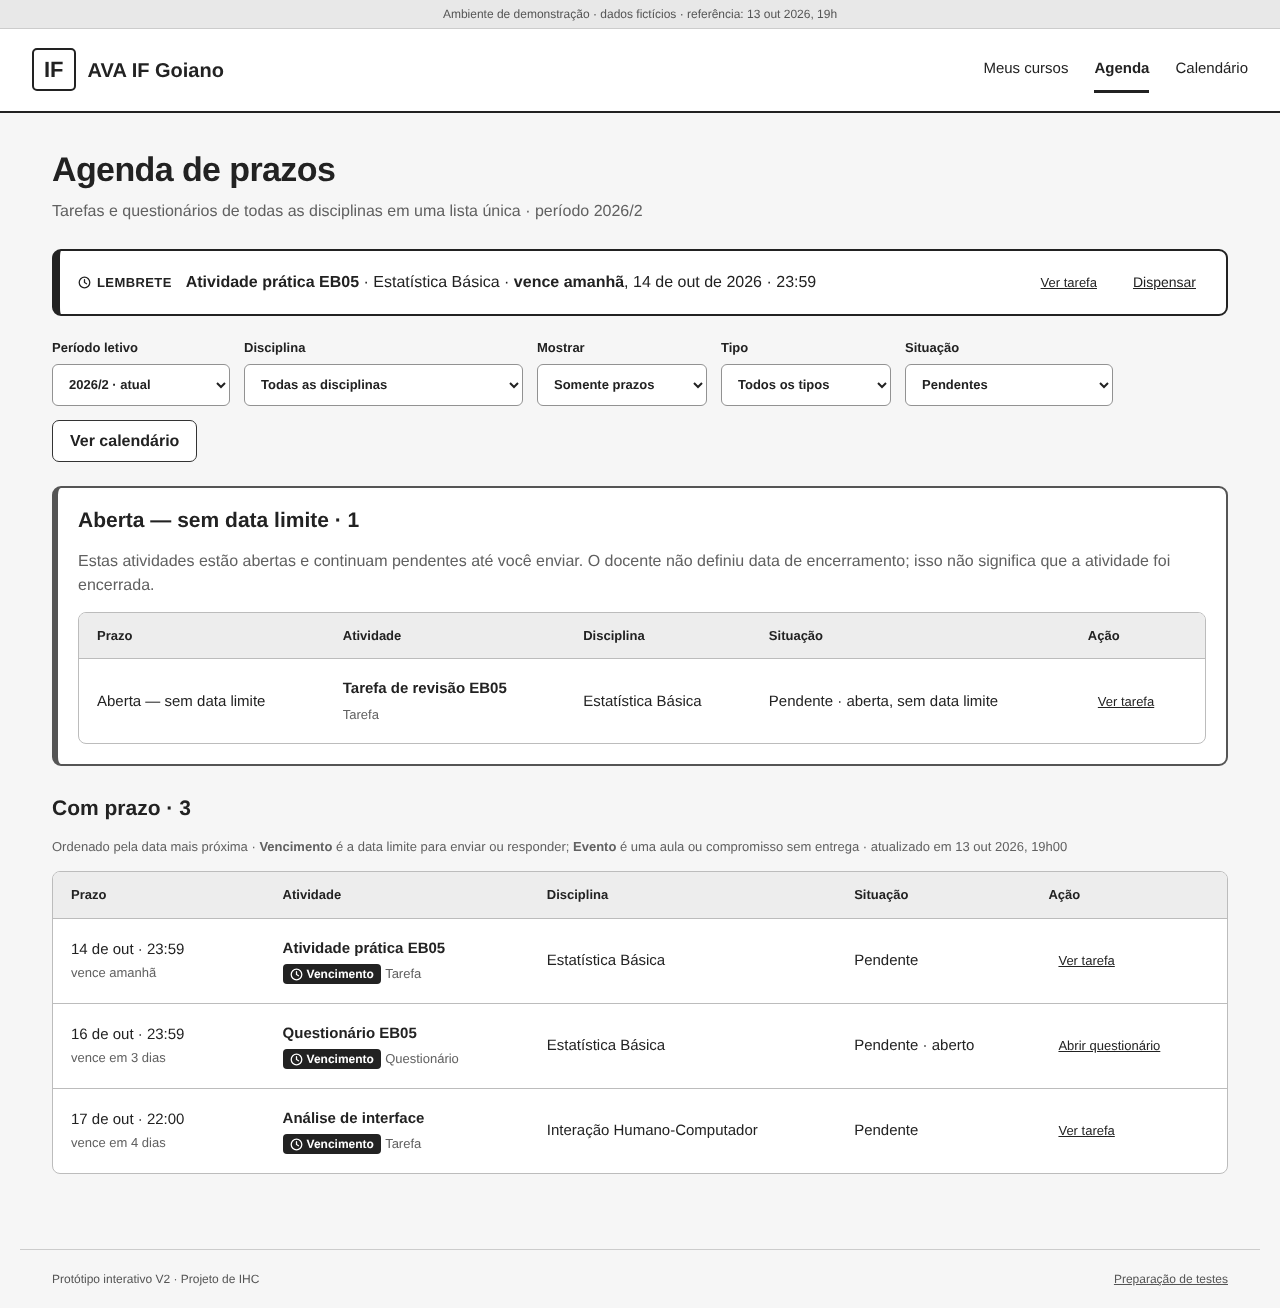
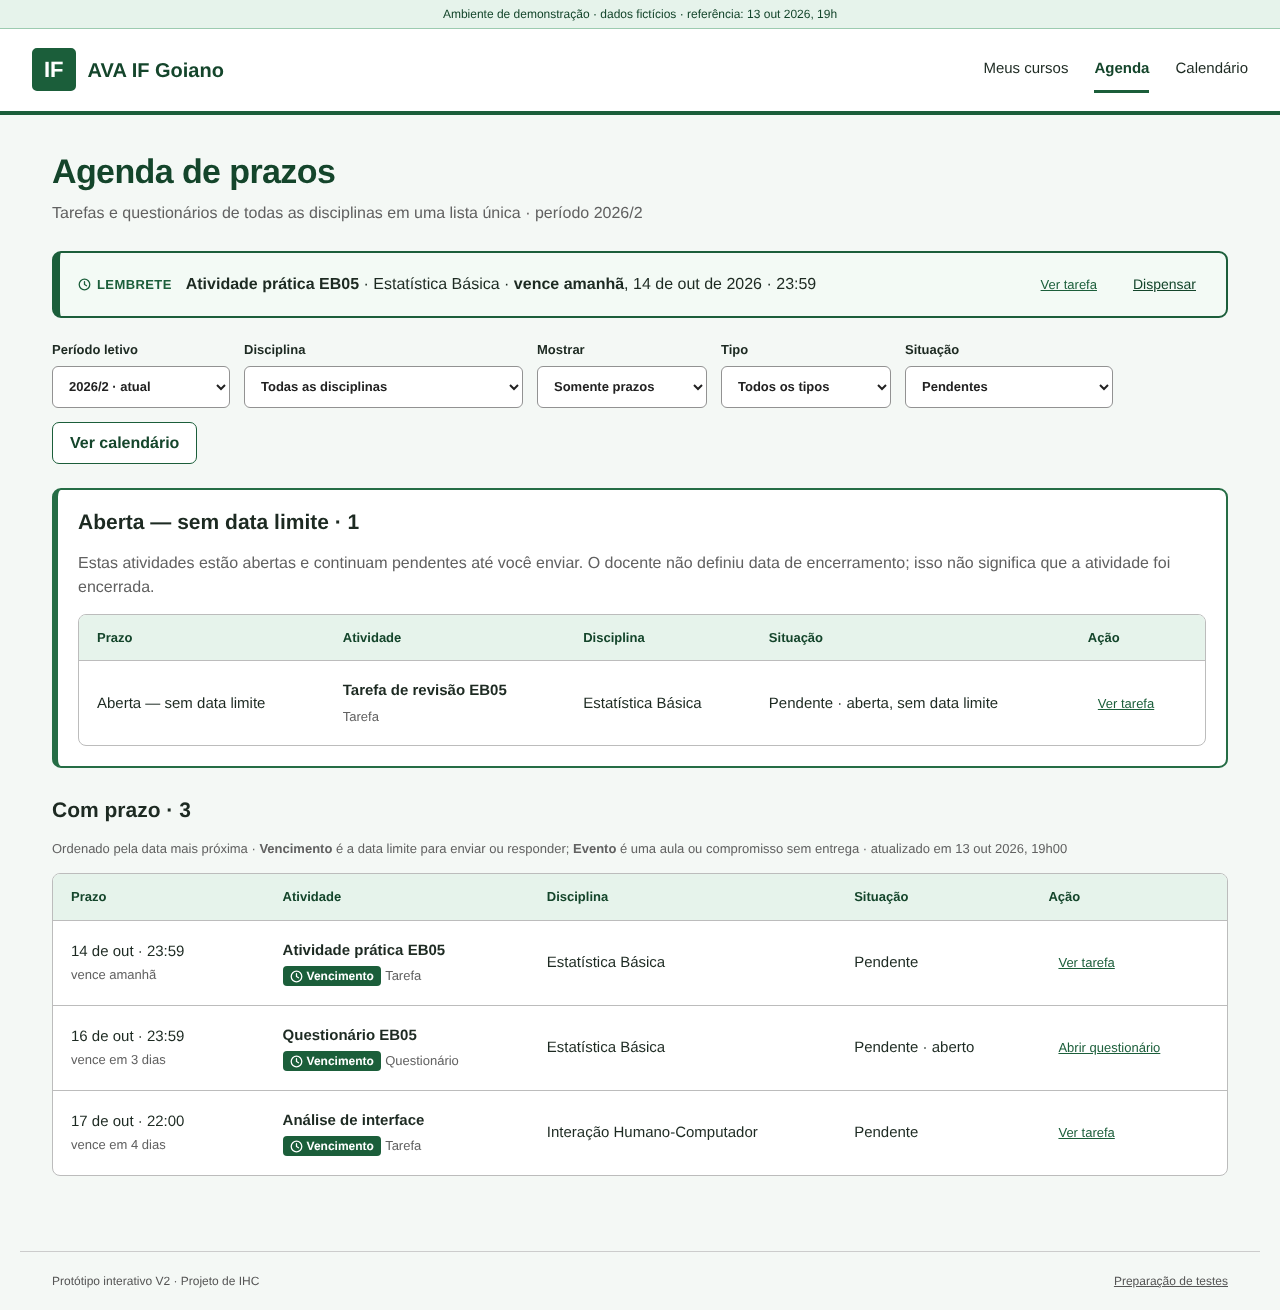
Aplicar tons de verde ao protótipo v2
Paleta verde com contraste AA nos elementos principais e capturas do v2
atualizadas em docs/antes-depois.

Claude-Session: https://claude.ai/code/session_01M7WeZCNtLS6rSB5SoXdMz1

diff --git a/styles.css b/styles.css
@@ -11,3 +11,20 @@
 .event-button .event-kind{display:inline-flex;align-items:center;gap:3px}.event-button.is-deadline .event-kind{background:#222;color:#fff;border-radius:3px;padding:0 4px}.event-button.is-event{border:1px dashed #777}.event-list .meta svg{vertical-align:-2px}
 .legend .tag{margin-left:6px}.notice.success p{margin:0}.receipt .notice{text-align:left}
 @media(max-width:640px){.page-head{align-items:stretch}.period-picker.prominent{width:100%}.period-picker.prominent select{width:100%}.reminder{align-items:flex-start}}
+/* v2 · identidade visual em tons de verde (contraste AA verificado) */
+:root{--g900:#14452b;--g800:#1b5e3a;--g700:#256d45;--g100:#e6f3eb;--g50:#f3faf5;--g300:#9ccbb0;background:#f4f8f5;color:#1d2a22}
+.demo-banner{background:var(--g100);border-bottom-color:var(--g300);color:var(--g900)}
+header{border-bottom:4px solid var(--g800)}.brand{color:var(--g900)}.brand-mark{background:var(--g800);border-color:var(--g800);color:#fff}
+.header-inner nav a.active{border-bottom-color:var(--g800);color:var(--g900)}
+button{border-color:var(--g800);color:var(--g900)}button:hover{background:var(--g100)}.primary{background:var(--g800);border-color:var(--g800);color:#fff}.primary:hover{background:var(--g900)}
+a:focus-visible,button:focus-visible,select:focus-visible,input:focus-visible,textarea:focus-visible{outline-color:var(--g700)}
+h1{color:var(--g900)}.breadcrumb a,.table-action,main a{color:var(--g800)}
+.period-picker.prominent{border-color:var(--g800);background:var(--g50)}
+.reminder{border-color:var(--g800);background:var(--g50)}.reminder-tag{color:var(--g800)}
+.tag.deadline{background:var(--g800)}.tag.event{border-color:var(--g700);color:var(--g900)}
+.event-button.is-deadline .event-kind{background:var(--g800)}.event-button.is-event{border-color:var(--g700)}.event-button.selected{background:var(--g100);border-color:var(--g800)}
+.filters button.active{background:var(--g800);border-color:var(--g800)}.tabs .active{border-color:var(--g800);color:var(--g900)}
+th{background:var(--g100);color:var(--g900)}tbody tr:hover{background:var(--g50)}.weekday{background:var(--g100);color:var(--g900)}.day.today{background:var(--g50)}.day.today .day-number{color:var(--g800)}
+.no-date{border-color:var(--g700)}.notice{border-left-color:var(--g800);background:var(--g50)}.notice.success{border-color:var(--g800);background:var(--g100)}.notice.error{border-color:#8a1c1c;border-left-color:#8a1c1c;background:#fff}
+.receipt{border-color:var(--g800)}.check-mark{border-color:var(--g800);background:var(--g800);color:#fff}
+.pill.bold{border-color:var(--g700)}.summary,.card,.panel{border-color:#c5d8cc}#toast{background:var(--g900)}

diff --git a/MUDANCAS.md b/MUDANCAS.md
@@ -49,6 +49,7 @@ No modelo da Fase 6, C07 estava como "Fase 7" (esforço alto). Ela foi feita ago
 ## Outras alterações técnicas
 - Estado salvo com outra chave (`ihc-fase6-v2`), para v1 e v2 não se misturarem no mesmo navegador.
 - Rodapé e faixa de demonstração identificam a versão V2.
+- Identidade visual em tons de verde (cabeçalho, botões principais, rótulos, lembrete, recibo e tabelas) para diferenciar o v2 do v1, que é em tons de cinza. Os pares de cor de texto e fundo têm contraste de pelo menos 6,8:1 (WCAG AA exige 4,5:1).
 - Telas no celular (390 px) conferidas sem rolagem horizontal da página: `v2_mobile_S1.png`, `v2_mobile_S2.png`.
 
 ## Efeito no roteiro de testes (T1–T6)
